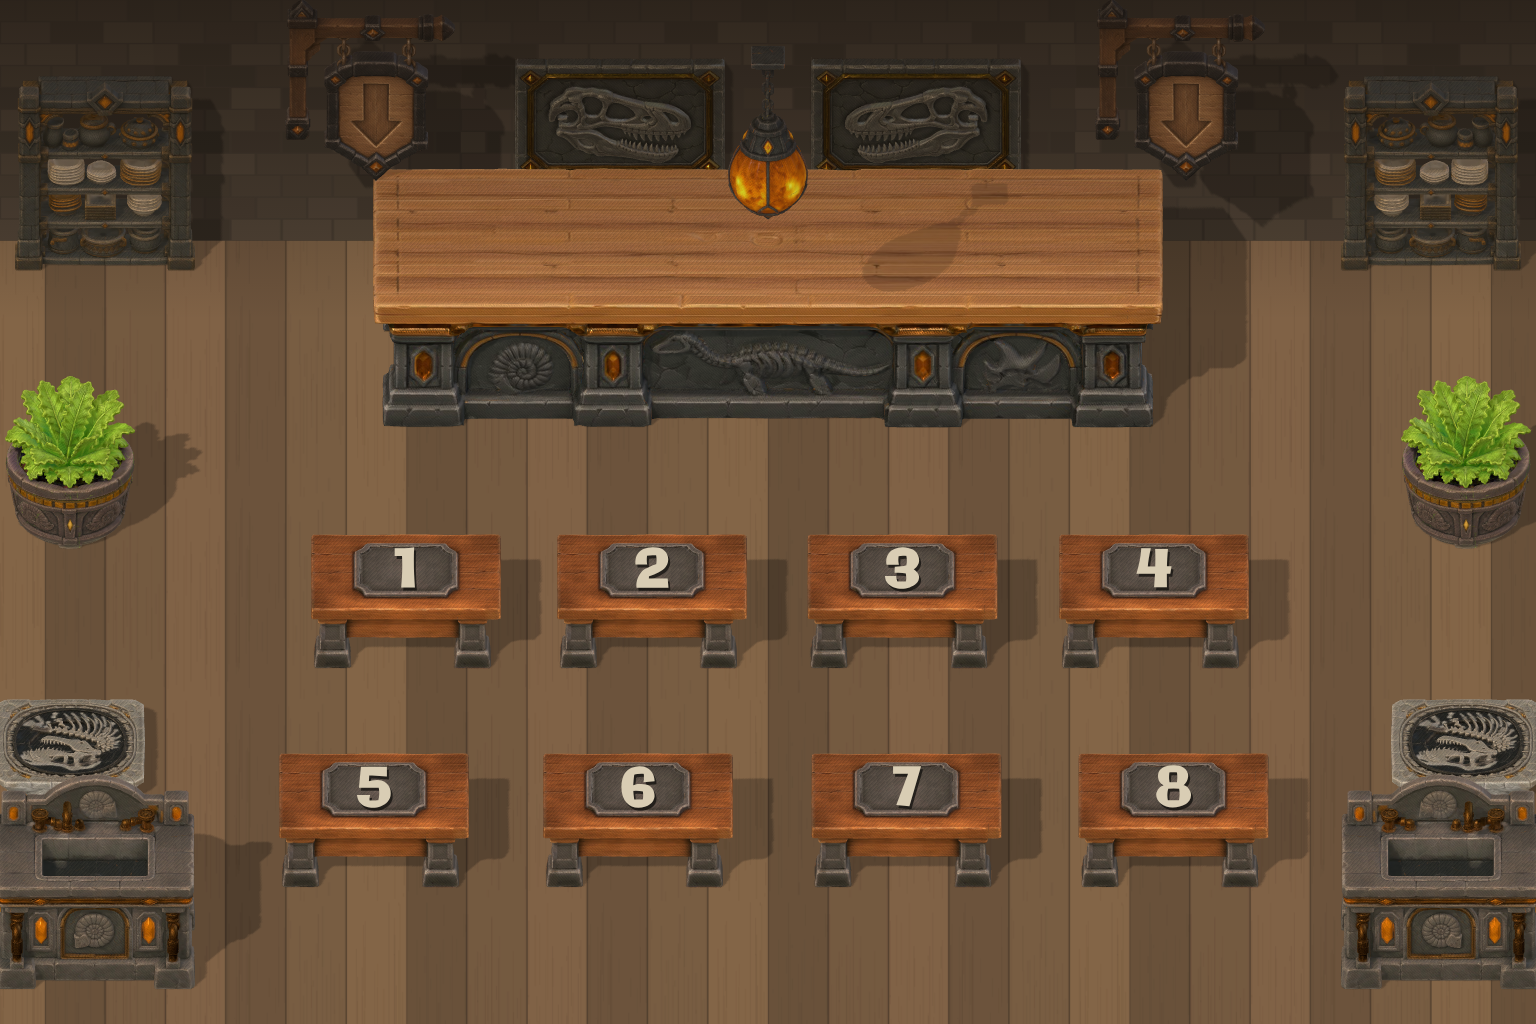
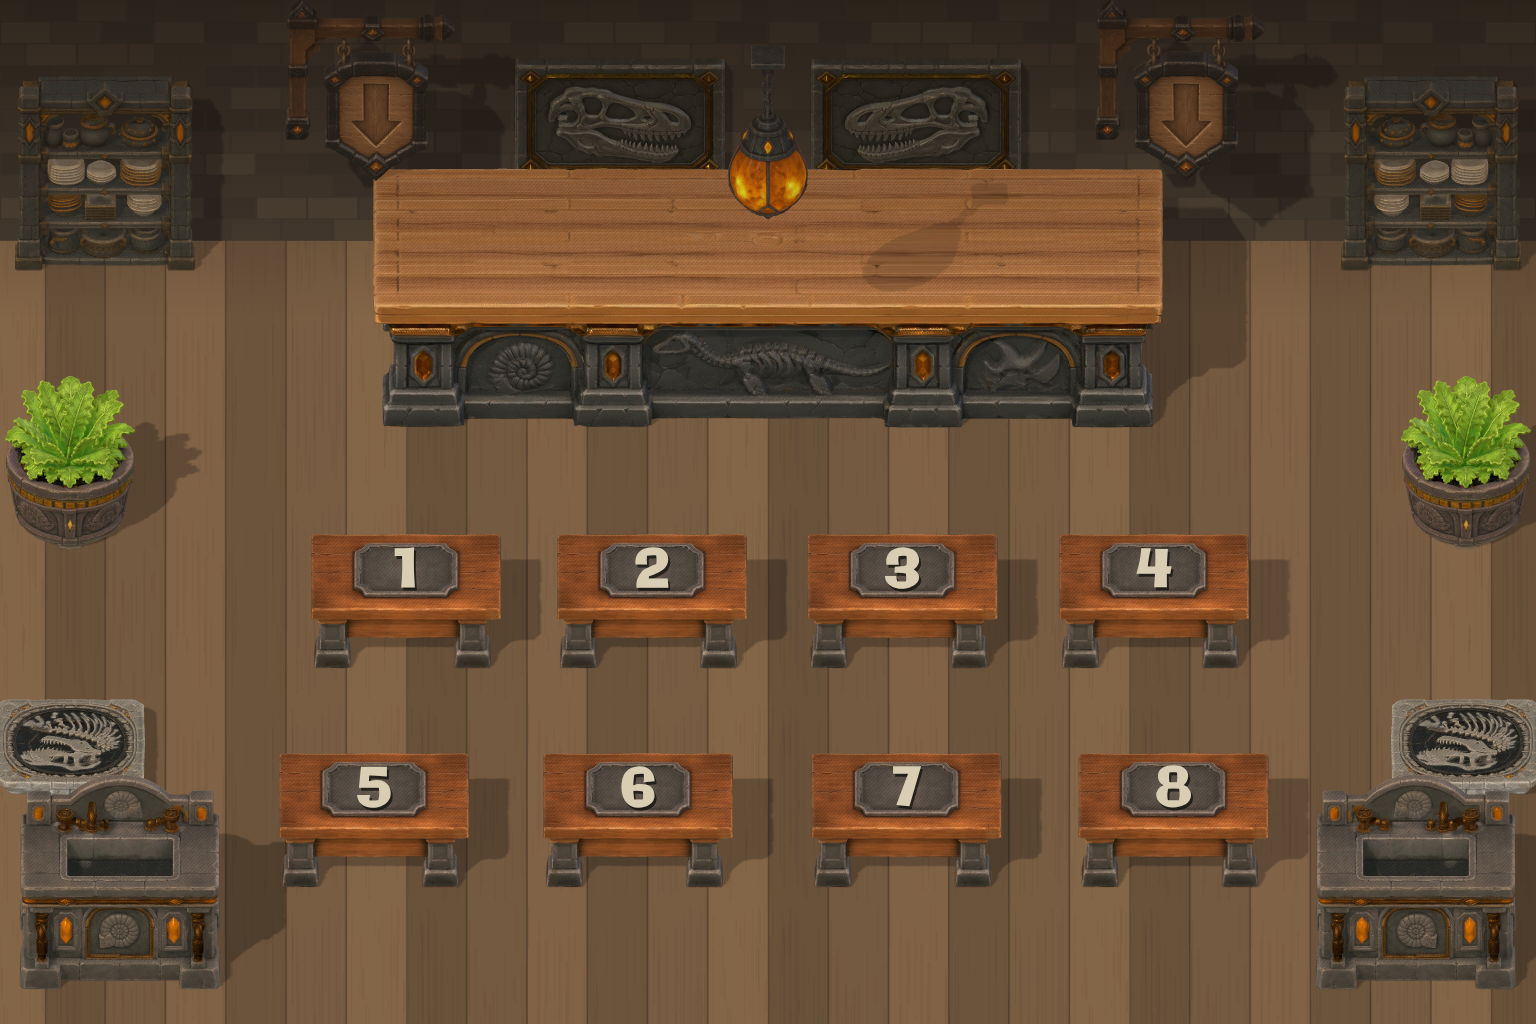
Give dish-return more breathing room off the wall
95 art px cleared the side wall outright but still read as tight
against it at a glance, per Rone's follow-up. Moved to 120 (mirrored
1416), 58 art px clear of the wall's ~61 -- close to double the margin,
still a little tighter into the corner than the original 115 this
sequence started from.

Same coupling as the last two commits: GEO's busXL/busXR moved with
the prop so the interactive dish-return zone stays under it.

Verified with a direct crop of the render (clear floor margin visible
on both sides) and the full harness suite (hands on both boards, hud,
dpad, board_audit.py on both boards) -- painted board's output is
unchanged throughout this whole sequence.

Claude-Session: https://claude.ai/code/session_014zcuEkUXw139GVbb15Z95H

Changed region(s): [[0.0, 0.75, 0.1875, 0.9688], [0.8438, 0.75, 1.0, 0.9688]]

diff --git a/index.html b/index.html
@@ -622,14 +622,14 @@
                        r2: { y: 850, padY: 927, barY: 741 },
         // busY moved 760->900 with the dish-return prop in render_room.mjs's
         // LAYOUT, which traded places with the floor-inlay medallion, then
-        // 900->950. busXL/R went 115/1425 -> 60/1476 tucking it into the
-        // corner, then back out to 95/1441 -- at 60 the prop sat behind the
-        // room's side wall plane (art x ~61, see render_room.mjs), which
-        // rendered as a dark clipped-looking patch over half the unit. Both
-        // boards now carry busXL/busXR rather than BUS_STATIONS hardcoding
-        // them, since this board's dish-return moved and the painted one's
-        // has not -- one shared constant would have forced them to match.
-        passY: 480, busY: 950, busXL: 95, busXR: 1441, padAtX: true, ticketBase: 315 }
+        // 900->950. busXL/R went 115/1425 -> 60/1476 (tucking into the
+        // corner; too far -- 60 sat behind the room's side wall, art x ~61,
+        // see render_room.mjs) -> 95/1441 (clear of the wall but still tight
+        // at a glance) -> 120/1416, 58 art px clear. Both boards carry
+        // busXL/busXR rather than BUS_STATIONS hardcoding them, since this
+        // board's dish-return moved and the painted one's has not -- one
+        // shared constant would have forced them to match.
+        passY: 480, busY: 950, busXL: 120, busXR: 1416, padAtX: true, ticketBase: 315 }
     // Measured off the painting, and out of spec on every band by 45-115px --
     // see DINING-ROOM-3D-RUNBOOK.md section 1. Kept until the swap.
     : { floorTop: 300, r1: { y: 465, padY: 590, barY: 398 },
